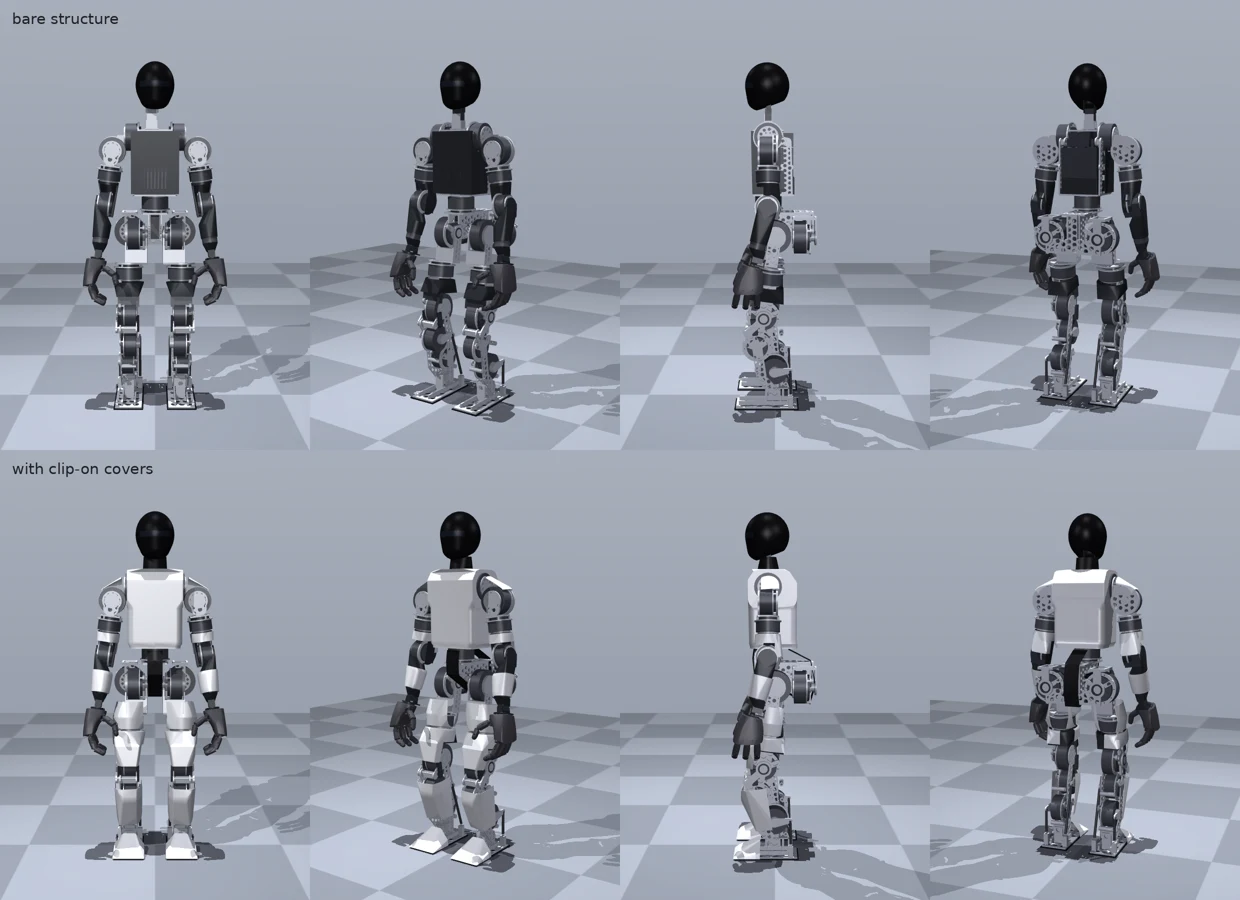
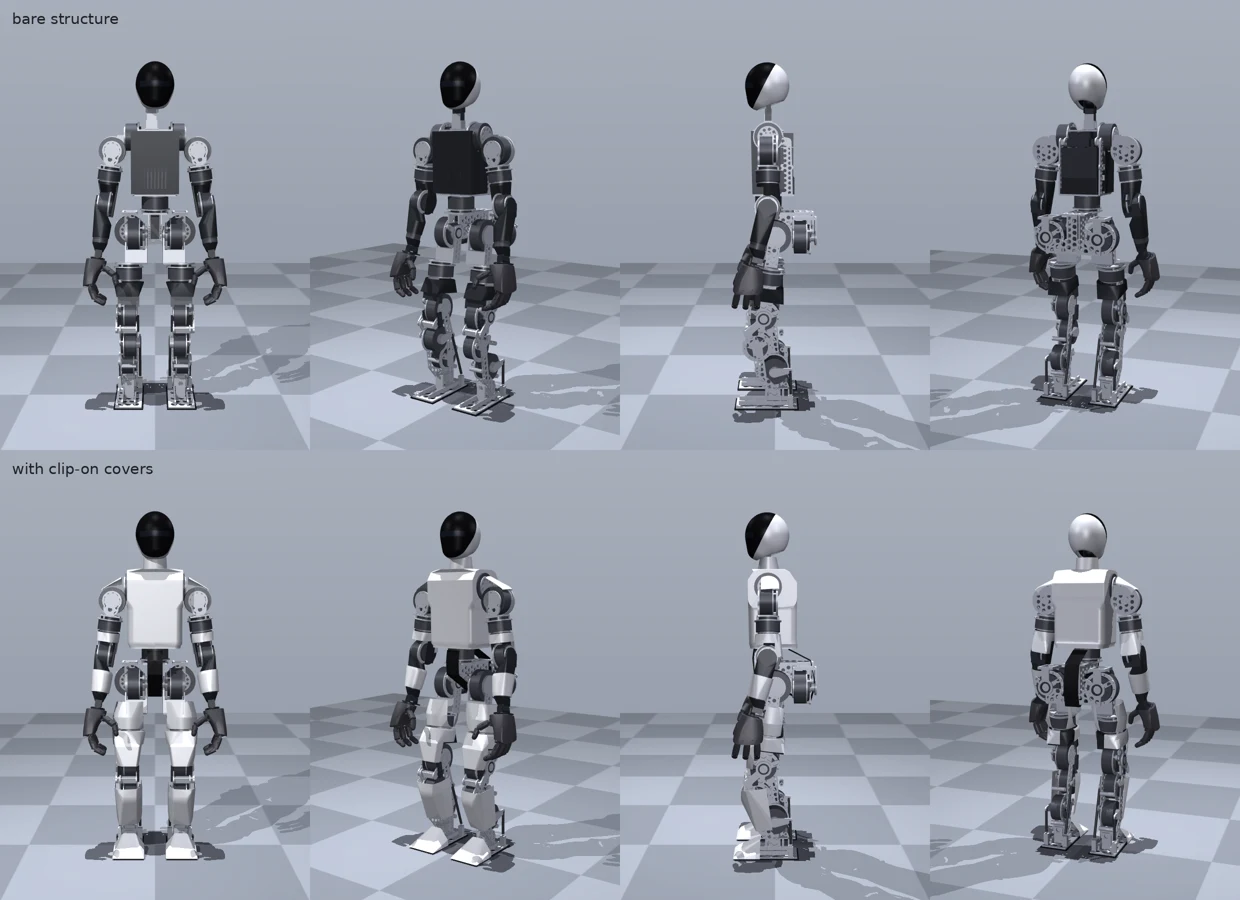
Light head shell and neck behind a dark visor; camera window noted
The helmet shell and neck sleeve are now light like the body shells,
and the dark visor is the face ahead of a plane from the back of the
crown down to the chin (28 deg from vertical, 20 mm further back at eye
height), so the light shell behind it reads as jaw and neck. Same shell,
mass and window; README render updated.

Found while checking it: the camera window, a 20 mm band in the skin
16-52 mm ahead of the camera, passes only about a third of the depth
view. Recorded in decisions and the roadmap's open questions.

diff --git a/cad/head.py b/cad/head.py
@@ -9,13 +9,16 @@ servos (STS3250, 45.3 x 35.8 x 24.8 mm) and the depth camera (Orbbec Gemini 335L
 - head frame: two plates on the pitch servo's horn and idler, joined by a bridge that carries
   the camera and a top bar that carries the shell;
 - head shell: a helmet, taller than it is wide and narrowing to the chin (the hull of two
-  ellipsoids), 2.5 mm wall, open at the bottom for the neck;
-- visor: the whole face, a separate glossy part, with a flush window in front of the camera
+  ellipsoids), 2.5 mm wall, open at the bottom for the neck; light, like the neck and body
+  shells, behind the visor;
+- visor: the whole face, a separate glossy dark part, ahead of a plane that runs from the
+  back of the crown down to the chin (so the light shell behind it reads as jaw and neck),
+  with a flush window in front of the camera
   (optical-grade, IR-transparent tinted polycarbonate, so the depth camera sees through it;
   its effect on depth noise is a phase 6 test);
 - the camera, as a bought part.
 
-The helmet sits on a dark neck sleeve (cad/covers.py). No fasteners yet.
+The helmet sits on a light neck sleeve (cad/covers.py). No fasteners yet.
 """
 
 from __future__ import annotations
@@ -39,8 +42,8 @@ CROWN = (4.0, 0.0, 94.0), (82.0, 71.0, 84.0)
 CHIN = (28.0, 0.0, 42.0), (50.0, 54.0, 40.0)
 CAMERA = (124.0, 29.0, 27.0, 133.0)  # width, height, depth (mm), mass (g)
 CAMERA_AT = (21.0, 0.0, 92.0)  # its centre, at eye height: half way up the head
-VISOR_X = 34.0  # the visor is the whole face ahead of this plane (at eye height) ...
-VISOR_TILT = 18.0  # ... leaning back this far (degrees), following the face
+VISOR_X = 14.0  # the visor is the whole face ahead of this plane (at eye height) ...
+VISOR_TILT = 28.0  # ... leaning back this far (degrees): from the back of the crown to the chin
 NECK_CUT_Z = 20.0  # the shell's open bottom over the neck axis; the neck sleeve
 NECK_CUT_SLOPE = 0.35  # (cad/covers.py) runs up inside it. The underside rises towards the
 # back of the head (mm up per mm back), from the chin up to where the neck enters

diff --git a/tools/render_robot.py b/tools/render_robot.py
@@ -4,7 +4,7 @@ from the front, three-quarter, side and back, standing with the palms towards th
 Kinematic only (no physics): the generated URDFs (tools/build_urdf.py) with the CAD meshes
 (python -m cad.build) are loaded through sim/mujoco/check_standing.py, posed and placed on the
 floor, and coloured in the finish colours: aluminium machined parts, graphite printed parts,
-light covers, a glossy dark head.
+light covers, a light head shell with a glossy dark visor.
 
 Usage (needs the sim extra and the meshes; MUJOCO_GL=egl renders without a display):
   python -m cad.build > /dev/null
@@ -99,11 +99,13 @@ def colour(model: mujoco.MjModel) -> None:
         elif t == mujoco.mjtGeom.mjGEOM_MESH:
             name = model.mesh(model.geom_dataid[g]).name
             p = cad.get(name, {})
-            if name in ("head_shell", "head_visor"):
+            if name == "head_visor":
                 model.geom_rgba[g] = GLOSS
+            elif name in ("head_shell", "neck_cover"):
+                model.geom_rgba[g] = COVER
             elif name == "head_window":
                 model.geom_rgba[g] = [0.10, 0.12, 0.16, 1]
-            elif name in ("pelvis_cover", "neck_cover") or "glute" in name:
+            elif name == "pelvis_cover" or "glute" in name:
                 model.geom_rgba[g] = DARK
             elif p.get("process") == "cover":
                 model.geom_rgba[g] = COVER

diff --git a/cad/covers.py b/cad/covers.py
@@ -3,7 +3,7 @@
 The robot is designed to look finished without them (graphite printed shells, aluminium
 plates, the actuators' own housings). The shells give it a finished body: a smooth light
 torso tapering to the waist, a dark hip girdle, long leg shells, arm sleeves, toe caps and a
-dark neck sleeve under the helmet head, with the joints left visible between them. They add
+light neck sleeve under the helmet head, with the joints left visible between them. They add
 some fall protection.
 
 Each shell is a 1.2 mm printed skin following its link's parts and motors at a 4 mm gap: the
@@ -218,7 +218,7 @@ def parts() -> list[Part]:
             add(f"torso_cover_{name}_{side}", "torso_link", q ^ half("z", 1, seam_z))
             add(f"torso_cover_{name}_{side}_waist", "torso_link", q ^ half("z", -1, seam_z))
 
-    # --- neck sleeve (dark, flexible print): from inside the torso shell's neck opening up
+    # --- neck sleeve (light, flexible print): from inside the torso shell's neck opening up
     # into the helmet, turning with neck yaw; the head pitches over it
     nz = j["neck_pitch"][2]
     bot = -22.0  # just above the torso bridge; flaring towards the collar

diff --git a/docs/decisions.md b/docs/decisions.md
@@ -2,6 +2,12 @@
 
 Newest first. Each entry gives the decision, the reason and the alternatives considered. Re-open a decision only with a new reason, and record the change here.
 
+## 2026-10-28: a light head shell and neck behind a dark visor
+
+The head was all dark, a featureless ball. The helmet shell and the neck sleeve are now light like the body shells, and the dark visor is the face ahead of a plane that runs from the back of the crown down to the chin (28° back from vertical, 20 mm further back at eye height than before), so the light shell behind it reads as a jaw and neck, in the style of current commercial humanoids. Only the split and the colours change: the same shell, the same mass and the same window. Alternatives considered (renders outside this repo): today's 18° split with a light back, which reads as a flat mask, and steeper splits (35-55°), which leave the black as a cap over the forehead.
+
+Open, found while checking it: the camera window lets through only about a third of the depth camera's view. The window is a 20 mm tall band in the outer skin, 16-52 mm ahead of the camera's front face as the helmet curves, so it crops the depth view (about 90 x 65°) to roughly 33% of its rays (a ray cast from both infrared cameras and the centre); the depth and stair work needs most of it. Options: a much taller window band, the camera moved forward to the skin, or the whole visor in infrared-transparent tinted polycarbonate, which raises distortion and reflection questions for the stereo depth. To settle before the head is made, with the camera maker's cover-window guidance.
+
 ## 2026-10-28: an honest mass budget; a stronger thigh plate, thinner shin and pelvis plates
 
 A weight study (finite elements and topology optimisation of the main plates, outside this repo) found three things. The mass budget was optimistic: the computer weighs 0.877 kg (the developer kit, weighed, without its power supply), not the 1.5 kg estimate, but the CAD has no fasteners and the budget no limb harness. Those are now items of their own (0.4 kg, about 4% of the frame, and 0.5 kg for about 7 m of harness), so the model reads 39.91 kg bare and 40.74 kg with shells, under the 41 kg limit, where an honest count before these changes was about 41.6 kg. Second, the thigh plate, a single plate beside the leg's line, is weak against a sideways fall onto the knee: at an estimated 1 x body weight across the knee, finite elements put the drilled 6 mm plate at SF 0.5. It is now 9 mm stock pocketed from the outside to a 2 mm floor (`lighten(..., floor=)`): SF 2.3 in that case by `cad/strength.py`, which gained the case, for +61 g a side (8 mm gave SF 1.8). Third, two plates had margin: the shin side plates go from 6 to 4 mm (SF 2.1, -0.26 kg for both legs) and the pelvis back plate from 8 to 6 mm (SF 2.1, -0.08 kg). Net: structure -0.22 kg, budget +0.28 kg. Open: the torso base, which a hand catch with the arm forward mostly twists (torsion is outside `cad/strength.py`; finite elements put it at SF 0.8), needs FEA and likely a pocketed, stiffer plate before it is made; the side-fall load is an estimate until falls are measured in simulation; a topology-optimised thigh outline could take back about 35 g of the 61. Not taken: thinner hip pitch box walls (torsion unchecked), single-sided joints (needs the RS04 output bearing's moment rating) and a 13S2P battery (runtime at the 1 h limit).

diff --git a/docs/roadmap.md b/docs/roadmap.md
@@ -91,11 +91,12 @@ The 1-DOF grippers are replaced by two bought 8-servo four-finger hand kits (own
 3. Robstride bus current and regen behaviour (sizes the fuse, clamp and precharge).
 4. Real CAN timing with 3–5 motors per bus on the Orin under JetPack 7.2, and the on-board CAN controllers' pin setup.
 5. Depth camera driver support on JetPack 7.2; camera baseline figure (sources disagree).
-6. Primary IMU choice (industrial AHRS or a BMI088 on a microcontroller).
-7. Cell availability (genuine stock) and the built pack's mass.
-8. Desktop-CNC feeds and achievable accuracy in 6061 (coupon cuts).
-9. Ankle push-rod loads and rod-end sizing (simulation with gait loads).
-10. GR00T N1.7 closed-loop latency on the Orin while the 50 Hz controller runs.
-11. Knee and hip-roll heating on slow stairs (knee 44 N·m, 109% of rated, and hip roll 103% in the static check at 39.86 kg): see [design/stairs.md](design/stairs.md) for the issue, options and how it gets settled.
-12. Hand: weigh the kits, confirm the 6 × M3 on Ø42 wrist pattern on the real part, and measure serial bus timing with 8 servos per hand.
-13. CAN interfaces: robot.yaml has 7 CAN buses (4 leg, 2 arm, battery), but the BOM has 3 USB-CAN adapters plus the Orin's 2 on-board ports. Either the adapters are dual-channel or two more are needed; settle it with the CAN timing test (item 4).
+6. The head's camera window crops the depth view to about a third (decisions 2026-10-28): a taller window, the camera at the skin, or a fully IR-transparent visor.
+7. Primary IMU choice (industrial AHRS or a BMI088 on a microcontroller).
+8. Cell availability (genuine stock) and the built pack's mass.
+9. Desktop-CNC feeds and achievable accuracy in 6061 (coupon cuts).
+10. Ankle push-rod loads and rod-end sizing (simulation with gait loads).
+11. GR00T N1.7 closed-loop latency on the Orin while the 50 Hz controller runs.
+12. Knee and hip-roll heating on slow stairs (knee 44 N·m, 109% of rated, and hip roll 103% in the static check at 39.86 kg): see [design/stairs.md](design/stairs.md) for the issue, options and how it gets settled.
+13. Hand: weigh the kits, confirm the 6 × M3 on Ø42 wrist pattern on the real part, and measure serial bus timing with 8 servos per hand.
+14. CAN interfaces: robot.yaml has 7 CAN buses (4 leg, 2 arm, battery), but the BOM has 3 USB-CAN adapters plus the Orin's 2 on-board ports. Either the adapters are dual-channel or two more are needed; settle it with the CAN timing test (item 4).
